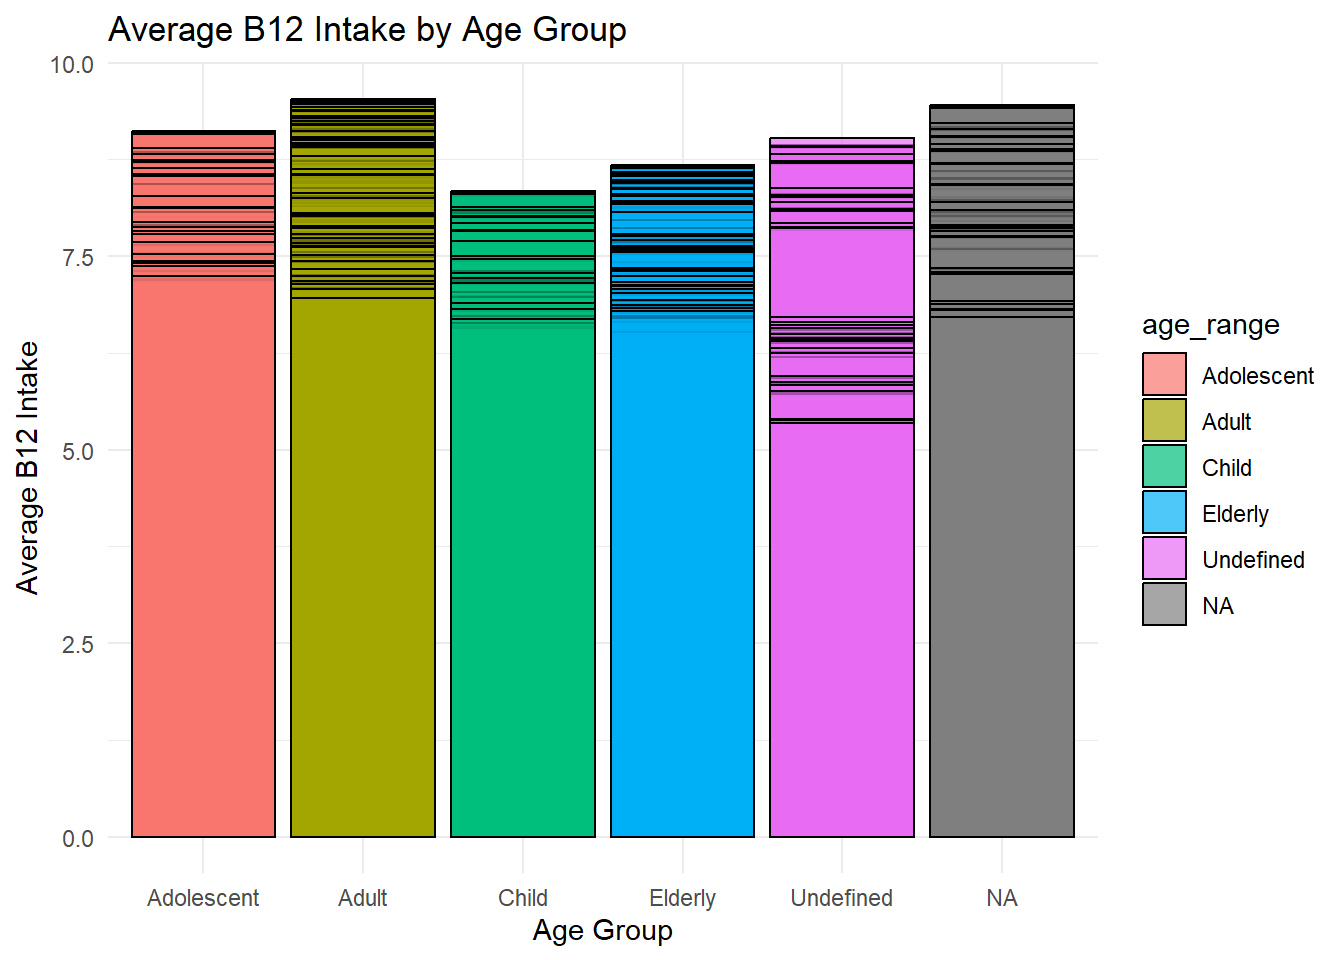
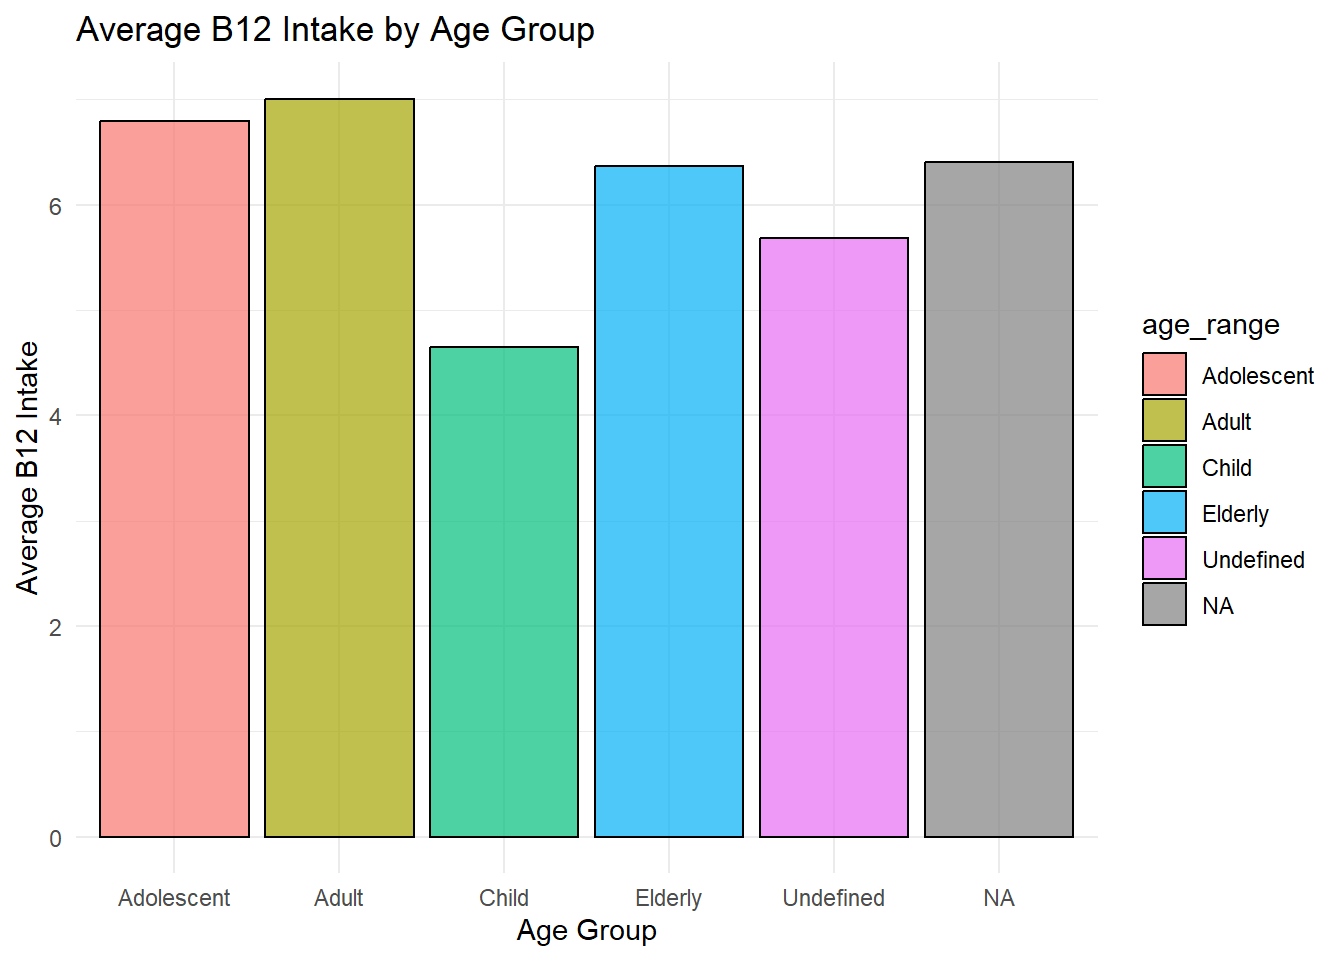
finale

diff --git a/docs/preprocesseddata.html b/docs/preprocesseddata.html
@@ -273,27 +273,29 @@ pre > code.sourceCode > span > a:first-child::before { text-decoration: underlin
 <section id="monitoring-the-data" class="level2" data-number="2.4">
 <h2 data-number="2.4" class="anchored" data-anchor-id="monitoring-the-data"><span class="header-section-number">2.4</span> Monitoring the Data</h2>
 <div class="cell">
-<div class="sourceCode cell-code" id="cb3"><pre class="sourceCode r code-with-copy"><code class="sourceCode r"><span id="cb3-1"><a href="#cb3-1" aria-hidden="true" tabindex="-1"></a><span class="fu">library</span>(DT)</span>
-<span id="cb3-2"><a href="#cb3-2" aria-hidden="true" tabindex="-1"></a></span>
-<span id="cb3-3"><a href="#cb3-3" aria-hidden="true" tabindex="-1"></a>loaded_datasets <span class="ot">&lt;-</span> <span class="fu">readRDS</span>(<span class="st">"wits_data.rds"</span>)</span>
-<span id="cb3-4"><a href="#cb3-4" aria-hidden="true" tabindex="-1"></a>read_wits_turkey_data_only <span class="ot">&lt;-</span> loaded_datasets<span class="sc">$</span>wits_turkey_data_only</span>
-<span id="cb3-5"><a href="#cb3-5" aria-hidden="true" tabindex="-1"></a>read_wits_turkey_data_with_partners <span class="ot">&lt;-</span> loaded_datasets<span class="sc">$</span>wits_turkey_data_with_partners</span>
-<span id="cb3-6"><a href="#cb3-6" aria-hidden="true" tabindex="-1"></a></span>
-<span id="cb3-7"><a href="#cb3-7" aria-hidden="true" tabindex="-1"></a>DT<span class="sc">::</span><span class="fu">datatable</span>(<span class="fu">head</span>(read_wits_turkey_data_only), <span class="at">editable =</span> <span class="fu">list</span>(</span>
-<span id="cb3-8"><a href="#cb3-8" aria-hidden="true" tabindex="-1"></a>  <span class="at">target =</span> <span class="st">'row'</span>, <span class="at">disable =</span> <span class="fu">list</span>(<span class="at">columns =</span> <span class="fu">c</span>(<span class="dv">1</span>, <span class="dv">3</span>, <span class="dv">4</span>))</span>
-<span id="cb3-9"><a href="#cb3-9" aria-hidden="true" tabindex="-1"></a>))</span></code><button title="Copy to Clipboard" class="code-copy-button"><i class="bi"></i></button></pre></div>
-<div class="cell-output-display">
-
-<div class="datatables html-widget html-fill-item-overflow-hidden html-fill-item" id="htmlwidget-6a77b73b695bf5bceeb0" style="width:100%;height:auto;"></div>
-<script type="application/json" data-for="htmlwidget-6a77b73b695bf5bceeb0">{"x":{"filter":"none","vertical":false,"editable":{"target":"row","disable":{"columns":[1,3,4]},"numeric":[1,8,9],"date":[]},"data":[["1","2","3","4","5","6"],[2002,2003,2004,2005,2006,2007],["tur","tur","tur","tur","tur","tur"],["Turkey","Turkey","Turkey","Turkey","Turkey","Turkey"],["010121","010121","010121","010121","010121","010121"],["Horses; live, pure-bred breeding animals","Horses; live, pure-bred breeding animals","Horses; live, pure-bred breeding animals","Horses; live, pure-bred breeding animals","Horses; live, pure-bred breeding animals","Horses; live, pure-bred breeding animals"],["01","01","01","01","01","01"],["Live animals and animal products","Live animals and animal products","Live animals and animal products","Live animals and animal products","Live animals and animal products","Live animals and animal products"],[6307262,1231248,958946,1111437,3684454,6401349],[0,136000,0,22750,403711,240770]],"container":"<table class=\"display\">\n  <thead>\n    <tr>\n      <th> <\/th>\n      <th>year<\/th>\n      <th>reporter_iso<\/th>\n      <th>reporter_name<\/th>\n      <th>commodity_code<\/th>\n      <th>commodity_name<\/th>\n      <th>section_code<\/th>\n      <th>section_name<\/th>\n      <th>trade_value_usd_imp<\/th>\n      <th>trade_value_usd_exp<\/th>\n    <\/tr>\n  <\/thead>\n<\/table>","options":{"columnDefs":[{"className":"dt-right","targets":[1,8,9]},{"orderable":false,"targets":0}],"order":[],"autoWidth":false,"orderClasses":false}},"evals":[],"jsHooks":[]}</script>
+<div class="sourceCode cell-code" id="cb3"><pre class="sourceCode r code-with-copy"><code class="sourceCode r"><span id="cb3-1"><a href="#cb3-1" aria-hidden="true" tabindex="-1"></a><span class="fu">library</span>(DT)</span></code><button title="Copy to Clipboard" class="code-copy-button"><i class="bi"></i></button></pre></div>
+<div class="cell-output cell-output-stderr">
+<pre><code>Warning: package 'DT' was built under R version 4.3.2</code></pre>
 </div>
-<div class="sourceCode cell-code" id="cb4"><pre class="sourceCode r code-with-copy"><code class="sourceCode r"><span id="cb4-1"><a href="#cb4-1" aria-hidden="true" tabindex="-1"></a>DT<span class="sc">::</span><span class="fu">datatable</span>(<span class="fu">head</span>(read_wits_turkey_data_with_partners), <span class="at">editable =</span> <span class="fu">list</span>(</span>
-<span id="cb4-2"><a href="#cb4-2" aria-hidden="true" tabindex="-1"></a>  <span class="at">target =</span> <span class="st">'row'</span>, <span class="at">disable =</span> <span class="fu">list</span>(<span class="at">columns =</span> <span class="fu">c</span>(<span class="dv">1</span>, <span class="dv">3</span>, <span class="dv">4</span>))</span>
-<span id="cb4-3"><a href="#cb4-3" aria-hidden="true" tabindex="-1"></a>))</span></code><button title="Copy to Clipboard" class="code-copy-button"><i class="bi"></i></button></pre></div>
+<div class="sourceCode cell-code" id="cb5"><pre class="sourceCode r code-with-copy"><code class="sourceCode r"><span id="cb5-1"><a href="#cb5-1" aria-hidden="true" tabindex="-1"></a>loaded_datasets <span class="ot">&lt;-</span> <span class="fu">readRDS</span>(<span class="st">"wits_data.rds"</span>)</span>
+<span id="cb5-2"><a href="#cb5-2" aria-hidden="true" tabindex="-1"></a>read_wits_turkey_data_only <span class="ot">&lt;-</span> loaded_datasets<span class="sc">$</span>wits_turkey_data_only</span>
+<span id="cb5-3"><a href="#cb5-3" aria-hidden="true" tabindex="-1"></a>read_wits_turkey_data_with_partners <span class="ot">&lt;-</span> loaded_datasets<span class="sc">$</span>wits_turkey_data_with_partners</span>
+<span id="cb5-4"><a href="#cb5-4" aria-hidden="true" tabindex="-1"></a></span>
+<span id="cb5-5"><a href="#cb5-5" aria-hidden="true" tabindex="-1"></a>DT<span class="sc">::</span><span class="fu">datatable</span>(<span class="fu">head</span>(read_wits_turkey_data_only), <span class="at">editable =</span> <span class="fu">list</span>(</span>
+<span id="cb5-6"><a href="#cb5-6" aria-hidden="true" tabindex="-1"></a>  <span class="at">target =</span> <span class="st">'row'</span>, <span class="at">disable =</span> <span class="fu">list</span>(<span class="at">columns =</span> <span class="fu">c</span>(<span class="dv">1</span>, <span class="dv">3</span>, <span class="dv">4</span>))</span>
+<span id="cb5-7"><a href="#cb5-7" aria-hidden="true" tabindex="-1"></a>))</span></code><button title="Copy to Clipboard" class="code-copy-button"><i class="bi"></i></button></pre></div>
 <div class="cell-output-display">
 
-<div class="datatables html-widget html-fill-item-overflow-hidden html-fill-item" id="htmlwidget-a203976cc59073d445fa" style="width:100%;height:auto;"></div>
-<script type="application/json" data-for="htmlwidget-a203976cc59073d445fa">{"x":{"filter":"none","vertical":false,"editable":{"target":"row","disable":{"columns":[1,3,4]},"numeric":[1,10,11],"date":[]},"data":[["1","2","3","4","5","6"],[2018,2019,2018,2005,2008,2002],["tur","tur","tur","tur","tur","tur"],["Turkey","Turkey","Turkey","Turkey","Turkey","Turkey"],["arg","aus","aut","aze","aze","bel"],["Argentina","Australia","Austria","Azerbaijan","Azerbaijan","Belgium"],["010121","010121","010121","010121","010121","010121"],["Horses; live, pure-bred breeding animals","Horses; live, pure-bred breeding animals","Horses; live, pure-bred breeding animals","Horses; live, pure-bred breeding animals","Horses; live, pure-bred breeding animals","Horses; live, pure-bred breeding animals"],["01","01","01","01","01","01"],["Live animals and animal products","Live animals and animal products","Live animals and animal products","Live animals and animal products","Live animals and animal products","Live animals and animal products"],[14926,7757,26155,6784,0,901992],[0,0,0,0,10250,0]],"container":"<table class=\"display\">\n  <thead>\n    <tr>\n      <th> <\/th>\n      <th>year<\/th>\n      <th>reporter_iso<\/th>\n      <th>reporter_name<\/th>\n      <th>partner_iso<\/th>\n      <th>partner_name<\/th>\n      <th>commodity_code<\/th>\n      <th>commodity_name<\/th>\n      <th>section_code<\/th>\n      <th>section_name<\/th>\n      <th>trade_value_usd_imp<\/th>\n      <th>trade_value_usd_exp<\/th>\n    <\/tr>\n  <\/thead>\n<\/table>","options":{"columnDefs":[{"className":"dt-right","targets":[1,10,11]},{"orderable":false,"targets":0}],"order":[],"autoWidth":false,"orderClasses":false}},"evals":[],"jsHooks":[]}</script>
+<div class="datatables html-widget html-fill-item-overflow-hidden html-fill-item" id="htmlwidget-e653247c7a64ea51b6e4" style="width:100%;height:auto;"></div>
+<script type="application/json" data-for="htmlwidget-e653247c7a64ea51b6e4">{"x":{"filter":"none","vertical":false,"editable":{"target":"row","disable":{"columns":[1,3,4]},"numeric":[1,8,9],"date":[]},"data":[["1","2","3","4","5","6"],[2002,2003,2004,2005,2006,2007],["tur","tur","tur","tur","tur","tur"],["Turkey","Turkey","Turkey","Turkey","Turkey","Turkey"],["010121","010121","010121","010121","010121","010121"],["Horses; live, pure-bred breeding animals","Horses; live, pure-bred breeding animals","Horses; live, pure-bred breeding animals","Horses; live, pure-bred breeding animals","Horses; live, pure-bred breeding animals","Horses; live, pure-bred breeding animals"],["01","01","01","01","01","01"],["Live animals and animal products","Live animals and animal products","Live animals and animal products","Live animals and animal products","Live animals and animal products","Live animals and animal products"],[6307262,1231248,958946,1111437,3684454,6401349],[0,136000,0,22750,403711,240770]],"container":"<table class=\"display\">\n  <thead>\n    <tr>\n      <th> <\/th>\n      <th>year<\/th>\n      <th>reporter_iso<\/th>\n      <th>reporter_name<\/th>\n      <th>commodity_code<\/th>\n      <th>commodity_name<\/th>\n      <th>section_code<\/th>\n      <th>section_name<\/th>\n      <th>trade_value_usd_imp<\/th>\n      <th>trade_value_usd_exp<\/th>\n    <\/tr>\n  <\/thead>\n<\/table>","options":{"columnDefs":[{"className":"dt-right","targets":[1,8,9]},{"orderable":false,"targets":0}],"order":[],"autoWidth":false,"orderClasses":false}},"evals":[],"jsHooks":[]}</script>
+</div>
+<div class="sourceCode cell-code" id="cb6"><pre class="sourceCode r code-with-copy"><code class="sourceCode r"><span id="cb6-1"><a href="#cb6-1" aria-hidden="true" tabindex="-1"></a>DT<span class="sc">::</span><span class="fu">datatable</span>(<span class="fu">head</span>(read_wits_turkey_data_with_partners), <span class="at">editable =</span> <span class="fu">list</span>(</span>
+<span id="cb6-2"><a href="#cb6-2" aria-hidden="true" tabindex="-1"></a>  <span class="at">target =</span> <span class="st">'row'</span>, <span class="at">disable =</span> <span class="fu">list</span>(<span class="at">columns =</span> <span class="fu">c</span>(<span class="dv">1</span>, <span class="dv">3</span>, <span class="dv">4</span>))</span>
+<span id="cb6-3"><a href="#cb6-3" aria-hidden="true" tabindex="-1"></a>))</span></code><button title="Copy to Clipboard" class="code-copy-button"><i class="bi"></i></button></pre></div>
+<div class="cell-output-display">
+
+<div class="datatables html-widget html-fill-item-overflow-hidden html-fill-item" id="htmlwidget-1c70ea9d56cb3c479a60" style="width:100%;height:auto;"></div>
+<script type="application/json" data-for="htmlwidget-1c70ea9d56cb3c479a60">{"x":{"filter":"none","vertical":false,"editable":{"target":"row","disable":{"columns":[1,3,4]},"numeric":[1,10,11],"date":[]},"data":[["1","2","3","4","5","6"],[2018,2019,2018,2005,2008,2002],["tur","tur","tur","tur","tur","tur"],["Turkey","Turkey","Turkey","Turkey","Turkey","Turkey"],["arg","aus","aut","aze","aze","bel"],["Argentina","Australia","Austria","Azerbaijan","Azerbaijan","Belgium"],["010121","010121","010121","010121","010121","010121"],["Horses; live, pure-bred breeding animals","Horses; live, pure-bred breeding animals","Horses; live, pure-bred breeding animals","Horses; live, pure-bred breeding animals","Horses; live, pure-bred breeding animals","Horses; live, pure-bred breeding animals"],["01","01","01","01","01","01"],["Live animals and animal products","Live animals and animal products","Live animals and animal products","Live animals and animal products","Live animals and animal products","Live animals and animal products"],[14926,7757,26155,6784,0,901992],[0,0,0,0,10250,0]],"container":"<table class=\"display\">\n  <thead>\n    <tr>\n      <th> <\/th>\n      <th>year<\/th>\n      <th>reporter_iso<\/th>\n      <th>reporter_name<\/th>\n      <th>partner_iso<\/th>\n      <th>partner_name<\/th>\n      <th>commodity_code<\/th>\n      <th>commodity_name<\/th>\n      <th>section_code<\/th>\n      <th>section_name<\/th>\n      <th>trade_value_usd_imp<\/th>\n      <th>trade_value_usd_exp<\/th>\n    <\/tr>\n  <\/thead>\n<\/table>","options":{"columnDefs":[{"className":"dt-right","targets":[1,10,11]},{"orderable":false,"targets":0}],"order":[],"autoWidth":false,"orderClasses":false}},"evals":[],"jsHooks":[]}</script>
 </div>
 </div>
 

diff --git a/docs/assignment1.html b/docs/assignment1.html
@@ -345,25 +345,22 @@ pre > code.sourceCode > span > a:first-child::before { text-decoration: underlin
 <span id="cb5-25"><a href="#cb5-25" aria-hidden="true" tabindex="-1"></a><span class="co"># Group by Age</span></span>
 <span id="cb5-26"><a href="#cb5-26" aria-hidden="true" tabindex="-1"></a>group_by_age_data <span class="ot">&lt;-</span> soviet_data <span class="sc">%&gt;%</span></span>
 <span id="cb5-27"><a href="#cb5-27" aria-hidden="true" tabindex="-1"></a>  <span class="fu">group_by</span>(age_range) <span class="sc">%&gt;%</span></span>
-<span id="cb5-28"><a href="#cb5-28" aria-hidden="true" tabindex="-1"></a>  <span class="fu">summarize</span>(average_calculation, <span class="at">na.rm =</span> <span class="cn">TRUE</span>)</span></code><button title="Copy to Clipboard" class="code-copy-button"><i class="bi"></i></button></pre></div>
-<div class="cell-output cell-output-stderr">
-<pre><code>Warning: Returning more (or less) than 1 row per `summarise()` group was deprecated in
-dplyr 1.1.0.
-ℹ Please use `reframe()` instead.
-ℹ When switching from `summarise()` to `reframe()`, remember that `reframe()`
-  always returns an ungrouped data frame and adjust accordingly.</code></pre>
+<span id="cb5-28"><a href="#cb5-28" aria-hidden="true" tabindex="-1"></a>  <span class="fu">summarise</span>(<span class="at">avg_b12 =</span> <span class="fu">mean</span>(average_calculation, <span class="at">na.rm =</span> <span class="cn">TRUE</span>), <span class="at">.groups =</span> <span class="st">'drop'</span>)</span>
+<span id="cb5-29"><a href="#cb5-29" aria-hidden="true" tabindex="-1"></a>  na_columns<span class="ot">&lt;-</span> <span class="fu">which</span>(<span class="fu">is.na</span>(group_by_age_data<span class="sc">$</span>age_range))</span>
+<span id="cb5-30"><a href="#cb5-30" aria-hidden="true" tabindex="-1"></a>  group_by_age_data  <span class="sc">%&gt;%</span> <span class="fu">glimpse</span>()</span></code><button title="Copy to Clipboard" class="code-copy-button"><i class="bi"></i></button></pre></div>
+<div class="cell-output cell-output-stdout">
+<pre><code>Rows: 6
+Columns: 2
+$ age_range &lt;chr&gt; "Adolescent", "Adult", "Child", "Elderly", "Undefined", NA
+$ avg_b12   &lt;dbl&gt; 6.798432, 7.007763, 4.648042, 6.366478, 5.683773, 6.402601</code></pre>
 </div>
-<div class="cell-output cell-output-stderr">
-<pre><code>`summarise()` has grouped output by 'age_range'. You can override using the
-`.groups` argument.</code></pre>
-</div>
-<div class="sourceCode cell-code" id="cb8"><pre class="sourceCode r code-with-copy"><code class="sourceCode r"><span id="cb8-1"><a href="#cb8-1" aria-hidden="true" tabindex="-1"></a><span class="co"># Plotting Histogram</span></span>
-<span id="cb8-2"><a href="#cb8-2" aria-hidden="true" tabindex="-1"></a><span class="fu">ggplot</span>(group_by_age_data, <span class="fu">aes</span>(<span class="at">x =</span> age_range, <span class="at">y =</span> average_calculation, <span class="at">fill =</span> age_range)) <span class="sc">+</span></span>
-<span id="cb8-3"><a href="#cb8-3" aria-hidden="true" tabindex="-1"></a>  <span class="fu">geom_bar</span>(<span class="at">stat =</span> <span class="st">"identity"</span>, <span class="at">position =</span> <span class="st">"dodge"</span>, <span class="at">color =</span> <span class="st">"black"</span>, <span class="at">alpha =</span> <span class="fl">0.7</span>) <span class="sc">+</span></span>
-<span id="cb8-4"><a href="#cb8-4" aria-hidden="true" tabindex="-1"></a>  <span class="fu">labs</span>(<span class="at">title =</span> <span class="st">"Average B12 Intake by Age Group"</span>,</span>
-<span id="cb8-5"><a href="#cb8-5" aria-hidden="true" tabindex="-1"></a>       <span class="at">x =</span> <span class="st">"Age Group"</span>,</span>
-<span id="cb8-6"><a href="#cb8-6" aria-hidden="true" tabindex="-1"></a>       <span class="at">y =</span> <span class="st">"Average B12 Intake"</span>) <span class="sc">+</span></span>
-<span id="cb8-7"><a href="#cb8-7" aria-hidden="true" tabindex="-1"></a>  <span class="fu">theme_minimal</span>()</span></code><button title="Copy to Clipboard" class="code-copy-button"><i class="bi"></i></button></pre></div>
+<div class="sourceCode cell-code" id="cb7"><pre class="sourceCode r code-with-copy"><code class="sourceCode r"><span id="cb7-1"><a href="#cb7-1" aria-hidden="true" tabindex="-1"></a><span class="co"># Plotting Histogram</span></span>
+<span id="cb7-2"><a href="#cb7-2" aria-hidden="true" tabindex="-1"></a><span class="fu">ggplot</span>(group_by_age_data, <span class="fu">aes</span>(<span class="at">x =</span> age_range, <span class="at">y =</span> avg_b12, <span class="at">fill =</span> age_range)) <span class="sc">+</span></span>
+<span id="cb7-3"><a href="#cb7-3" aria-hidden="true" tabindex="-1"></a>  <span class="fu">geom_bar</span>(<span class="at">stat =</span> <span class="st">"identity"</span>, <span class="at">position =</span> <span class="st">"dodge"</span>, <span class="at">color =</span> <span class="st">"black"</span>, <span class="at">alpha =</span> <span class="fl">0.7</span>) <span class="sc">+</span></span>
+<span id="cb7-4"><a href="#cb7-4" aria-hidden="true" tabindex="-1"></a>  <span class="fu">labs</span>(<span class="at">title =</span> <span class="st">"Average B12 Intake by Age Group"</span>,</span>
+<span id="cb7-5"><a href="#cb7-5" aria-hidden="true" tabindex="-1"></a>       <span class="at">x =</span> <span class="st">"Age Group"</span>,</span>
+<span id="cb7-6"><a href="#cb7-6" aria-hidden="true" tabindex="-1"></a>       <span class="at">y =</span> <span class="st">"Average B12 Intake"</span>) <span class="sc">+</span></span>
+<span id="cb7-7"><a href="#cb7-7" aria-hidden="true" tabindex="-1"></a>  <span class="fu">theme_minimal</span>()</span></code><button title="Copy to Clipboard" class="code-copy-button"><i class="bi"></i></button></pre></div>
 <div class="cell-output-display">
 <p><img src="assignment1_files/figure-html/unnamed-chunk-5-1.png" class="img-fluid" width="672"></p>
 </div>
